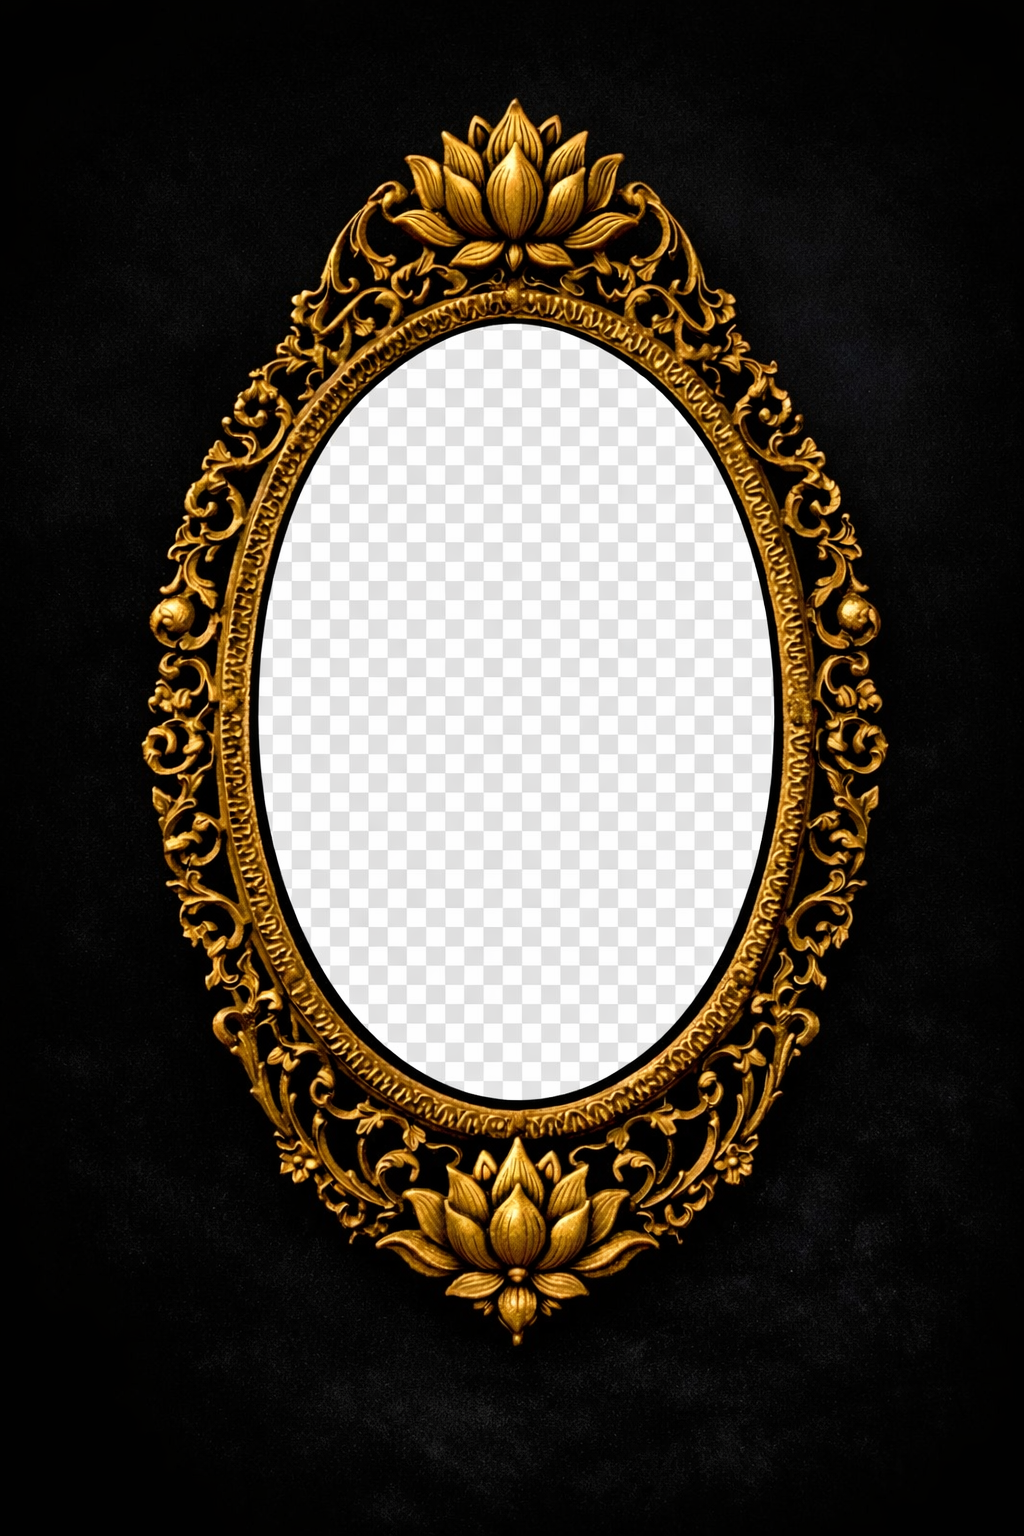
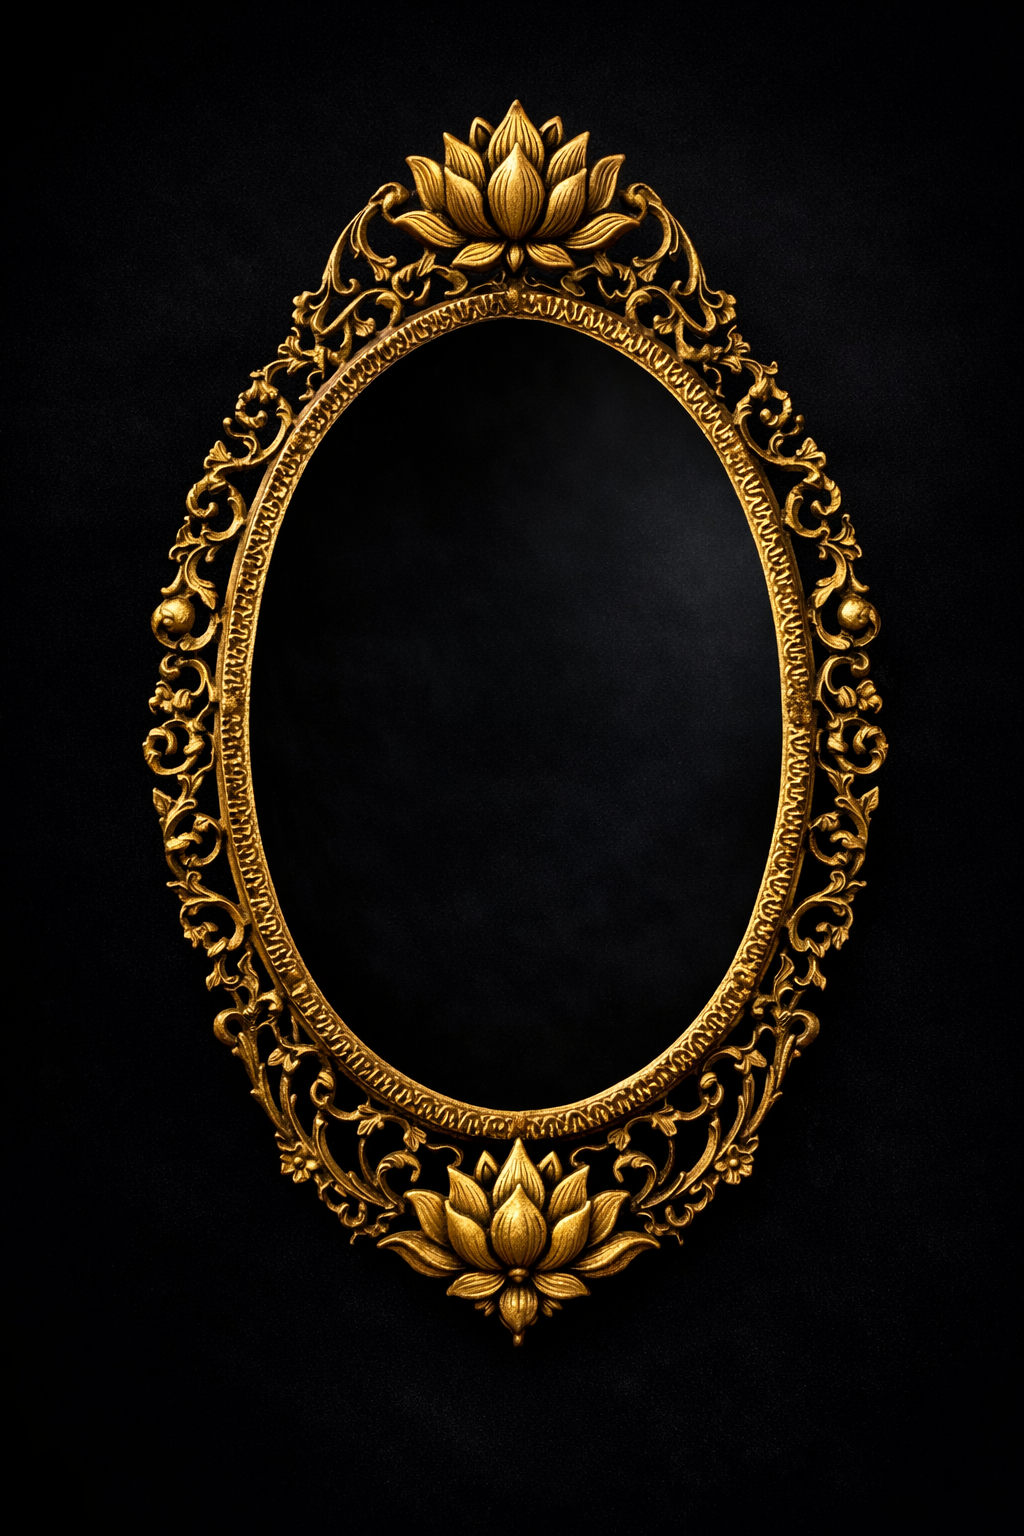
folder ready for vid and pic and fix page for image and vid

Changed region(s): [[0.125, 0.0625, 0.875, 0.875]]

diff --git a/app/sanctuary/season-1/day-1/page.jsx b/app/sanctuary/season-1/day-1/page.jsx
@@ -5,7 +5,9 @@ import React from "react";
 export default function Day1Page() {
   return (
     <div className="day1">
+      {/* -------------------------------------------------- */}
       {/* 1. HERO */}
+      {/* -------------------------------------------------- */}
       <section className="hero">
         <video className="heroVideo" autoPlay muted loop playsInline>
           <source src="/video-season1/day-1.mp4" type="video/mp4" />
@@ -18,85 +20,117 @@ export default function Day1Page() {
         </div>
       </section>
 
+      {/* -------------------------------------------------- */}
       {/* 2. RITUAL ELEMENTS GRID */}
+      {/* -------------------------------------------------- */}
       <section className="ritualElements">
         <h2 className="elementsTitle">The Elements You Bring Into the Water</h2>
 
         <div className="elementsGrid">
+
+          {/* 1 — Sun‑Infused Water */}
           <div className="element">
-            <div className="elementMedia"></div>
+            <div className="elementMedia">
+              <video autoPlay muted loop playsInline>
+                <source src="/ritual-elements/day1/sun-infused-water.mp4" />
+              </video>
+            </div>
             <p className="elementTitle">Sun‑Infused Water</p>
-            <p className="elementText">
-              Water warmed by the day, carrying the memory of light.
-            </p>
+            <p className="elementText">Water warmed by the day, carrying the memory of light.</p>
           </div>
 
+          {/* 2 — Moon‑Infused Water */}
           <div className="element">
-            <div className="elementMedia"></div>
+            <div className="elementMedia">
+              <video autoPlay muted loop playsInline>
+                <source src="/ritual-elements/day1/moon-infused-water.mp4" />
+              </video>
+            </div>
             <p className="elementTitle">Moon‑Infused Water</p>
-            <p className="elementText">
-              Water cooled by the night, carrying the memory of calm.
-            </p>
+            <p className="elementText">Water cooled by the night, carrying the memory of calm.</p>
           </div>
 
+          {/* 3 — Flower Petals */}
           <div className="element">
-            <div className="elementMedia"></div>
+            <div className="elementMedia">
+              <video autoPlay muted loop playsInline>
+                <source src="/ritual-elements/day1/flower-petals.mp4" />
+              </video>
+            </div>
             <p className="elementTitle">Flower Petals</p>
-            <p className="elementText">
-              A soft offering to the water — beauty returning to beauty.
-            </p>
+            <p className="elementText">A soft offering to the water — beauty returning to beauty.</p>
           </div>
 
+          {/* 4 — Epsom Salt */}
           <div className="element">
-            <div className="elementMedia"></div>
+            <div className="elementMedia">
+              <video autoPlay muted loop playsInline>
+                <source src="/ritual-elements/day1/epsom-salt.mp4" />
+              </video>
+            </div>
             <p className="elementTitle">Epsom Salt</p>
-            <p className="elementText">
-              Mineral release. A quiet unburdening.
-            </p>
+            <p className="elementText">Mineral release. A quiet unburdening.</p>
           </div>
 
+          {/* 5 — Bath Oil */}
           <div className="element">
-            <div className="elementMedia"></div>
+            <div className="elementMedia">
+              <video autoPlay muted loop playsInline>
+                <source src="/ritual-elements/day1/bath-oil.mp4" />
+              </video>
+            </div>
             <p className="elementTitle">Bath Oil</p>
-            <p className="elementText">
-              A touch of nourishment for the skin.
-            </p>
+            <p className="elementText">A touch of nourishment for the skin.</p>
           </div>
 
+          {/* 6 — Favorite Scent */}
           <div className="element">
-            <div className="elementMedia"></div>
+            <div className="elementMedia">
+              <video autoPlay muted loop playsInline>
+                <source src="/ritual-elements/day1/favorite-scent.mp4" />
+              </video>
+            </div>
             <p className="elementTitle">Your Favorite Scent</p>
-            <p className="elementText">
-              A fragrance that feels like home.
-            </p>
+            <p className="elementText">A fragrance that feels like home.</p>
           </div>
 
+          {/* 7 — Safe Light */}
           <div className="element">
-            <div className="elementMedia"></div>
+            <div className="elementMedia">
+              <video autoPlay muted loop playsInline>
+                <source src="/ritual-elements/day1/safe-light.mp4" />
+              </video>
+            </div>
             <p className="elementTitle">A Light That Doesn’t Burn</p>
-            <p className="elementText">
-              A soft, flameless glow — safe for any space.
-            </p>
+            <p className="elementText">A soft, flameless glow — safe for any space.</p>
           </div>
 
+          {/* 8 — Music */}
           <div className="element">
-            <div className="elementMedia"></div>
+            <div className="elementMedia">
+              <video autoPlay muted loop playsInline>
+                <source src="/ritual-elements/day1/music-ambience.mp4" />
+              </video>
+            </div>
             <p className="elementTitle">Music</p>
-            <p className="elementText">
-              A soundscape to soften the world around you.
-            </p>
+            <p className="elementText">A soundscape to soften the world around you.</p>
           </div>
+
         </div>
       </section>
 
+      {/* -------------------------------------------------- */}
       {/* 3. BATH HERO VIDEO */}
+      {/* -------------------------------------------------- */}
       <section className="bathHero">
         <video className="bathVideo" autoPlay muted loop playsInline>
           <source src="/videos/day1-bath.mp4" type="video/mp4" />
         </video>
       </section>
 
-      {/* 4. DRAMATIC REBIRTH RITUAL TEXT */}
+      {/* -------------------------------------------------- */}
+      {/* 4. DRAMATIC REBIRTH TEXT */}
+      {/* -------------------------------------------------- */}
       <section className="ritualText">
         <div className="ritualTextInner">
           <h2 className="ritualHeading">The Rebirth</h2>
